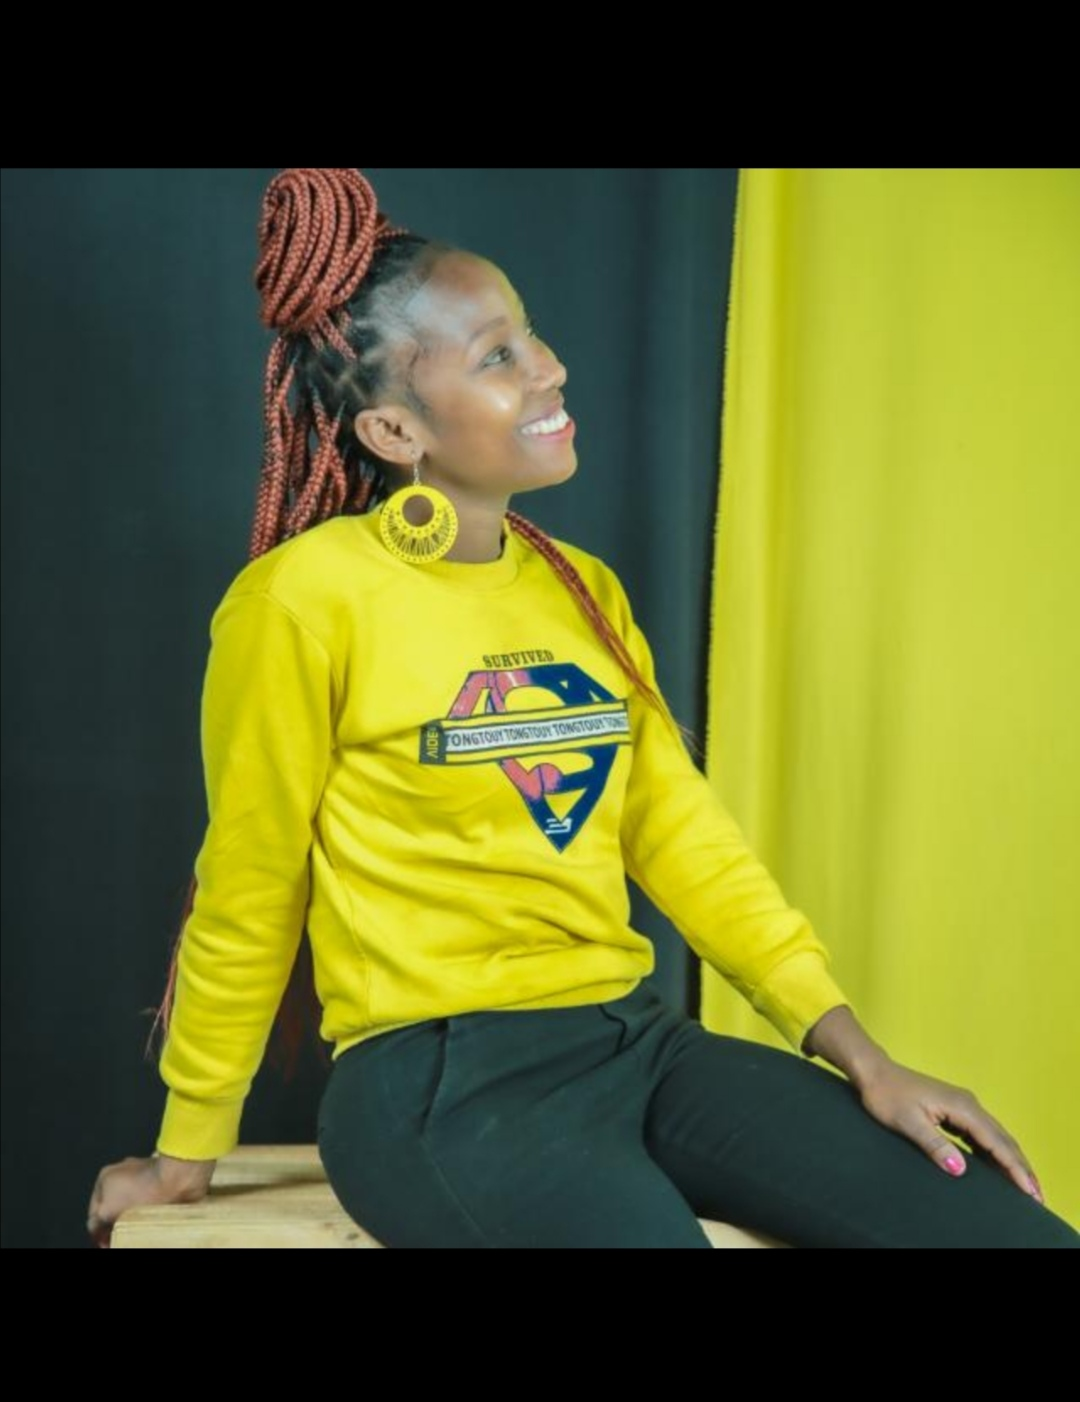
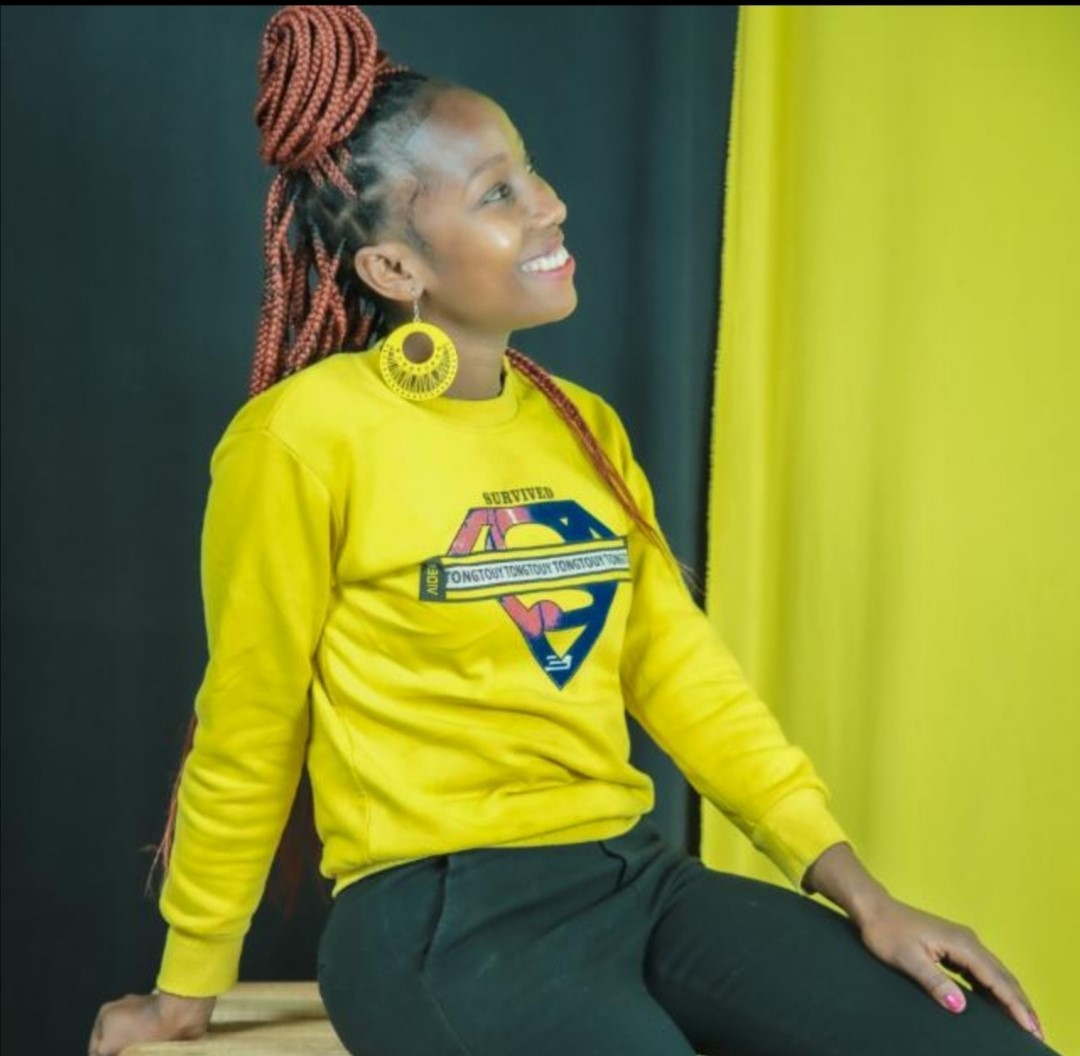
cropped author image minor edits for format previewed

diff --git a/content/articles/Continuous-Integration-with-Jenkins/index.md b/content/articles/Continuous-Integration-with-Jenkins/index.md
@@ -6,7 +6,7 @@ url: /continuous-integration-with-jenkins/
 title: Continuous Integration with Jenkins
 description: This tutorial will help you understand Jenkins. This continuous integration tool helps in the management of software projects.
 author: ruth-wambui
-date: 2021-08-10T00:00:00-14:00
+date: 2021-09-10T00:00:00-10:00
 topics: []
 excerpt_separator: <!--more-->
 images:
@@ -18,26 +18,20 @@ Today, software developers collaborate on different projects. For instance, they
 <!--more-->
 This process requires a version control system (VCS) where different developers can get code from other developers using pull requests, send their changes to other developers using push requests, and combine different code bases from different contributors using merge requests. 
 
-The above processes can be automated using continuous integration.
-
-Tools such as Jenkins can be used for continuous integration. 
+We can automate this process using continuous integration. Tools such as Jenkins can be used for continuous integration. 
 
 This article will focus on Jenkins as a tool for continuous integration. It is a popular open-source tool for automating different build processes. 
 
-These processes are predefined and can be triggered by different processes including time intervals and user actions.
+These processes are predefined and can be triggered by different processes, including time intervals and user actions.
 
 ### Understanding Jenkins and its role in the integration
-Jenkins is open-source automation software that is used in continuous integration. 
+Jenkins is open-source automation software that is used in continuous integration. It's written in Java using plugins that support the process of integration and delivery. This helps build and test software projects. 
 
-It's written in java using plugins that support the process of integration and delivery. This helps build and test software projects. 
+Jenkins plays an important role by helping developers integrate changes to projects that in turn enables users to access new updates. 
 
-Jenkins plays an important role by helping developers to integrate changes to projects which in turn enables users to access new updates. 
+Jenkins is compatible with a number of testing and deployment technologies thereby allowing continuous delivery. It facilitates continuous integration by supporting different languages, source code repositories using pipelines, and automation of other routine tasks.
 
-Jenkins is compatible with a number of testing and deployment technologies hence allows continuous delivery. 
-
-It facilitates continuous integration by supporting different languages, source code repositories using pipelines, and automation of other routine tasks.
-
-Jenkins continuously tests projects during software development, detects and reports any errors. This is done by performing a software build, and execution of a shell script. 
+Jenkins continuously tests projects during software development, detects, and reports any errors. This is done by performing a software build, and execution of a shell script. 
 
 Jenkins, therefore, facilitates integration by conducting repository checks, preparing builds, deploying built-in test servers, generating feedback, and verifying source code repository changes.
 
@@ -53,9 +47,7 @@ After successful installation, a configuration is done to unblock Jenkins by ent
 ### What are pipelines, and how are they used with Jenkins?
 In Jenkins, a [pipeline](https://www.jenkins.io/doc/book/pipeline/) is a collection of events and jobs interlinked with each other in a sequence. 
 
-They are a combination of plugins that support the integration and implementation of continuous delivery in Jenkins. 
-
-The pipeline has extensible automation servers that create code via Domain-Specific Languages [DSL](https://en.wikipedia.org/wiki/Domain-specific_language#Overview). 
+They are a combination of plugins that support the integration and implementation of continuous delivery in Jenkins. The pipeline has extensible automation servers that create code via Domain-Specific Languages [DSL](https://en.wikipedia.org/wiki/Domain-specific_language#Overview). 
 
 Jenkin pipelines allow many users to access them. The system is robust and resumes automatically in case of restarts.
 
@@ -76,7 +68,7 @@ This ensures that better and more updated versions are available to developers.
 
 By supporting a wide range of plugins such as [Jenkins Maven](https://plugins.jenkins.io/maven-plugin/), [Global Build Stats](https://plugins.jenkins.io/global-build-stats/), [Job Generator](https://plugins.jenkins.io/jobgenerator/), and Multiple SCMs, Jenkins grants developers added features and control over the inbuilt Jenkins feature. 
 
-Such plugins help developers to integrate Jenkins into their custom workplace for IT projects.
+Such plugins help developers integrate Jenkins into their custom workplace for IT projects.
 
 As a continuous integration tool, Jenkins is easy to use with updated documentation and support for all major operating systems. Users with basic IT skills can easily utilize the software. 
 
@@ -96,6 +88,8 @@ The second disadvantage relates to the way Jenkins is designed. It does not supp
 Jenkins lacks enough collaborative features. It does not allow developers to see the commits done by other team members. It is, therefore, challenging to track the project's progress. 
 
 Jenkins does not provide enough analytics on the end-to-end deployment cycle, which in turn hinders the overall tracking of the process. Additional personnel are required to manage the server. This, in turn, increases operational costs.
+
+Happy learning!
 
 ### Further reading
 - [Top 5 benefits of Jenkins pipeline](https://staragile.com/blog/what-is-jenkins-pipeline)

diff --git a/content/authors/ruth-wambui/index.md b/content/authors/ruth-wambui/index.md
@@ -2,4 +2,4 @@
 title: Ruth Wambui
 type: authors
 --- 
-Wambui is an undergraduate student pursuing information and communication technology. She has interest in cyber security and computer networks. She enjoys watching movies during her free time.
+Ruth Wambui is an undergraduate student pursuing information and communication technology. She has interest in cyber security and computer networks. She enjoys watching movies during her free time.
